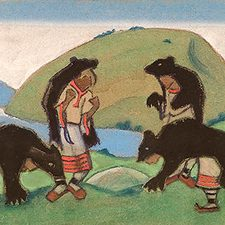
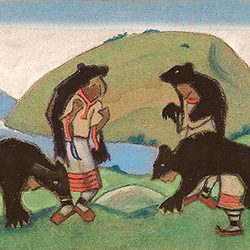
Fixing layout problem

diff --git a/app/assets/stylesheets/styles.css.scss b/app/assets/stylesheets/styles.css.scss
@@ -12,6 +12,7 @@ body {
 }
 
 @import 'bootstrap-responsive';
+
 .btn-primary {color: #333333;}
 .hero-unit {
 	background-color: #f8f8f8;
@@ -30,7 +31,7 @@ h1, h2, {color: #c3334e;}
 		color: $gray;
 	}
 }
-#pins {margin: 0 auto;}
+
 /*required for jQ Masonry*/
 .box {
 	margin: 5px;
@@ -46,7 +47,7 @@ h1, h2, {color: #c3334e;}
 	}
 .box img {
 	display: block;
-	width: 100%;
+	/*width: 100%;*/
 	-webkit-border-radius: 5px;
 	-moz-border-radius: 5px;
 	border-radius:  5px;
